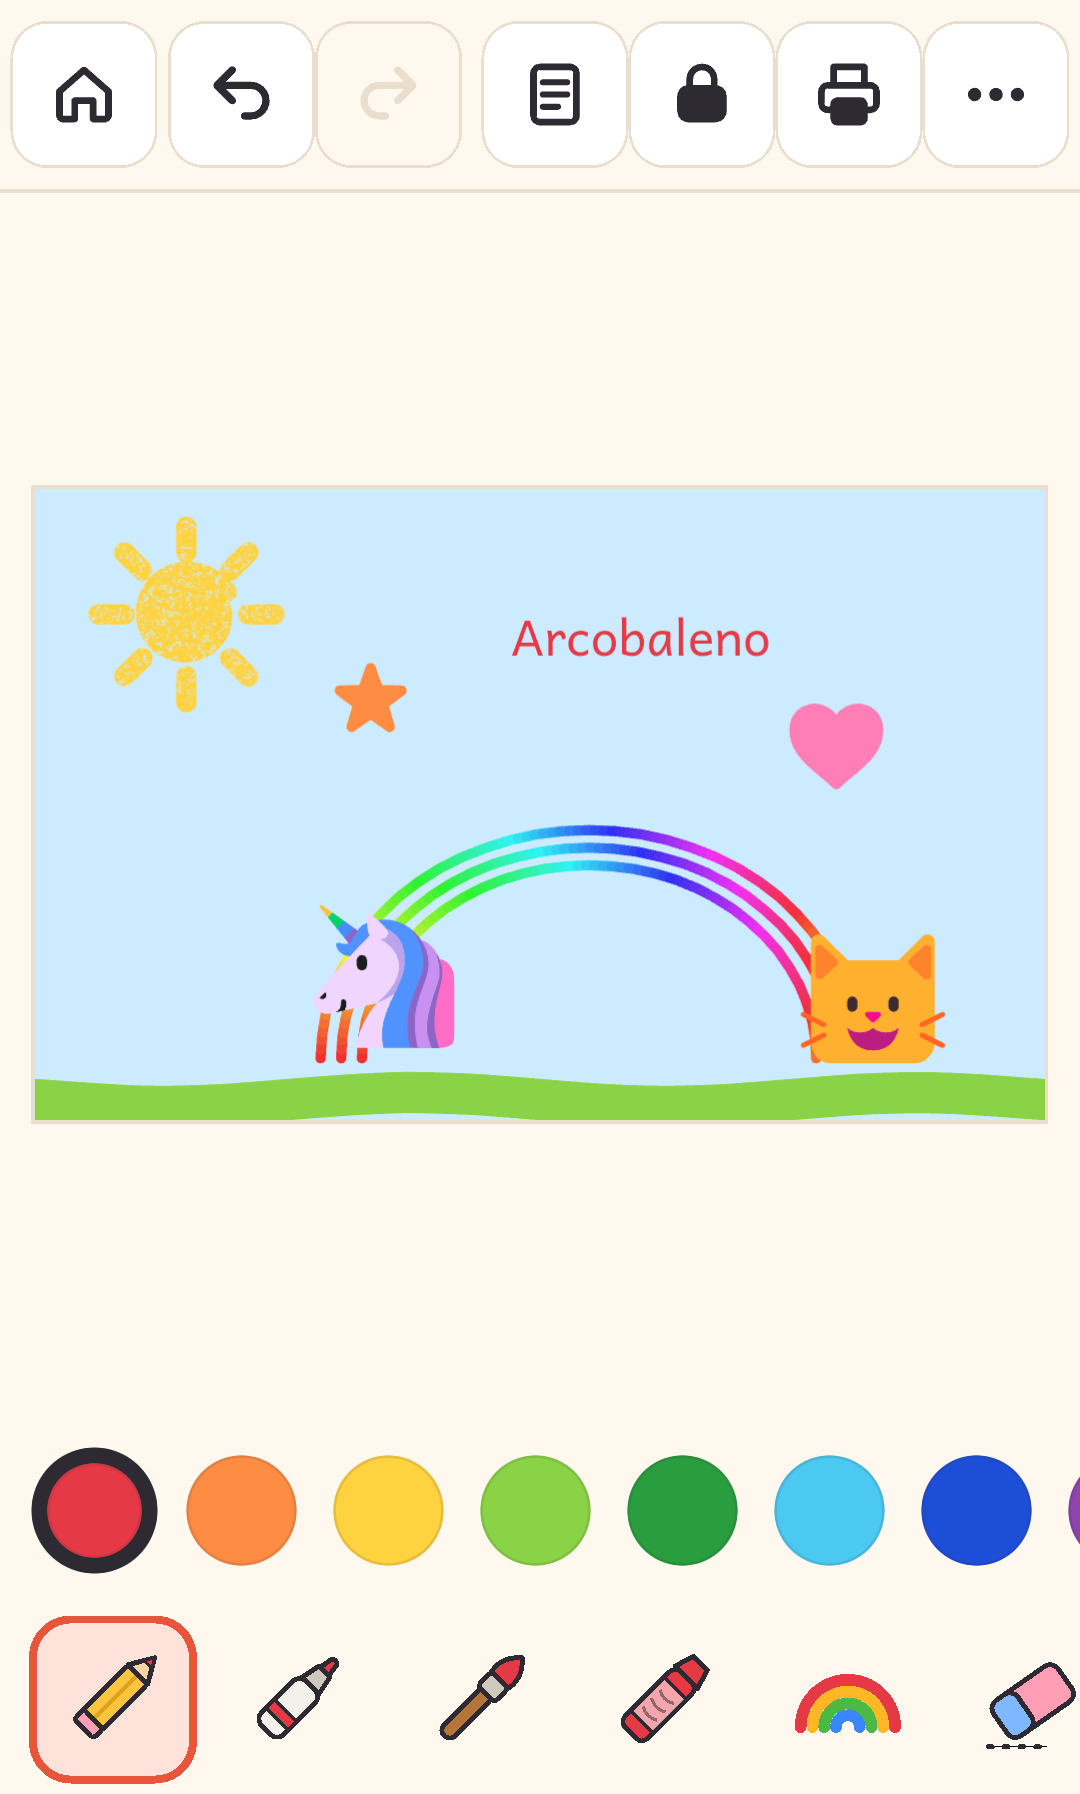
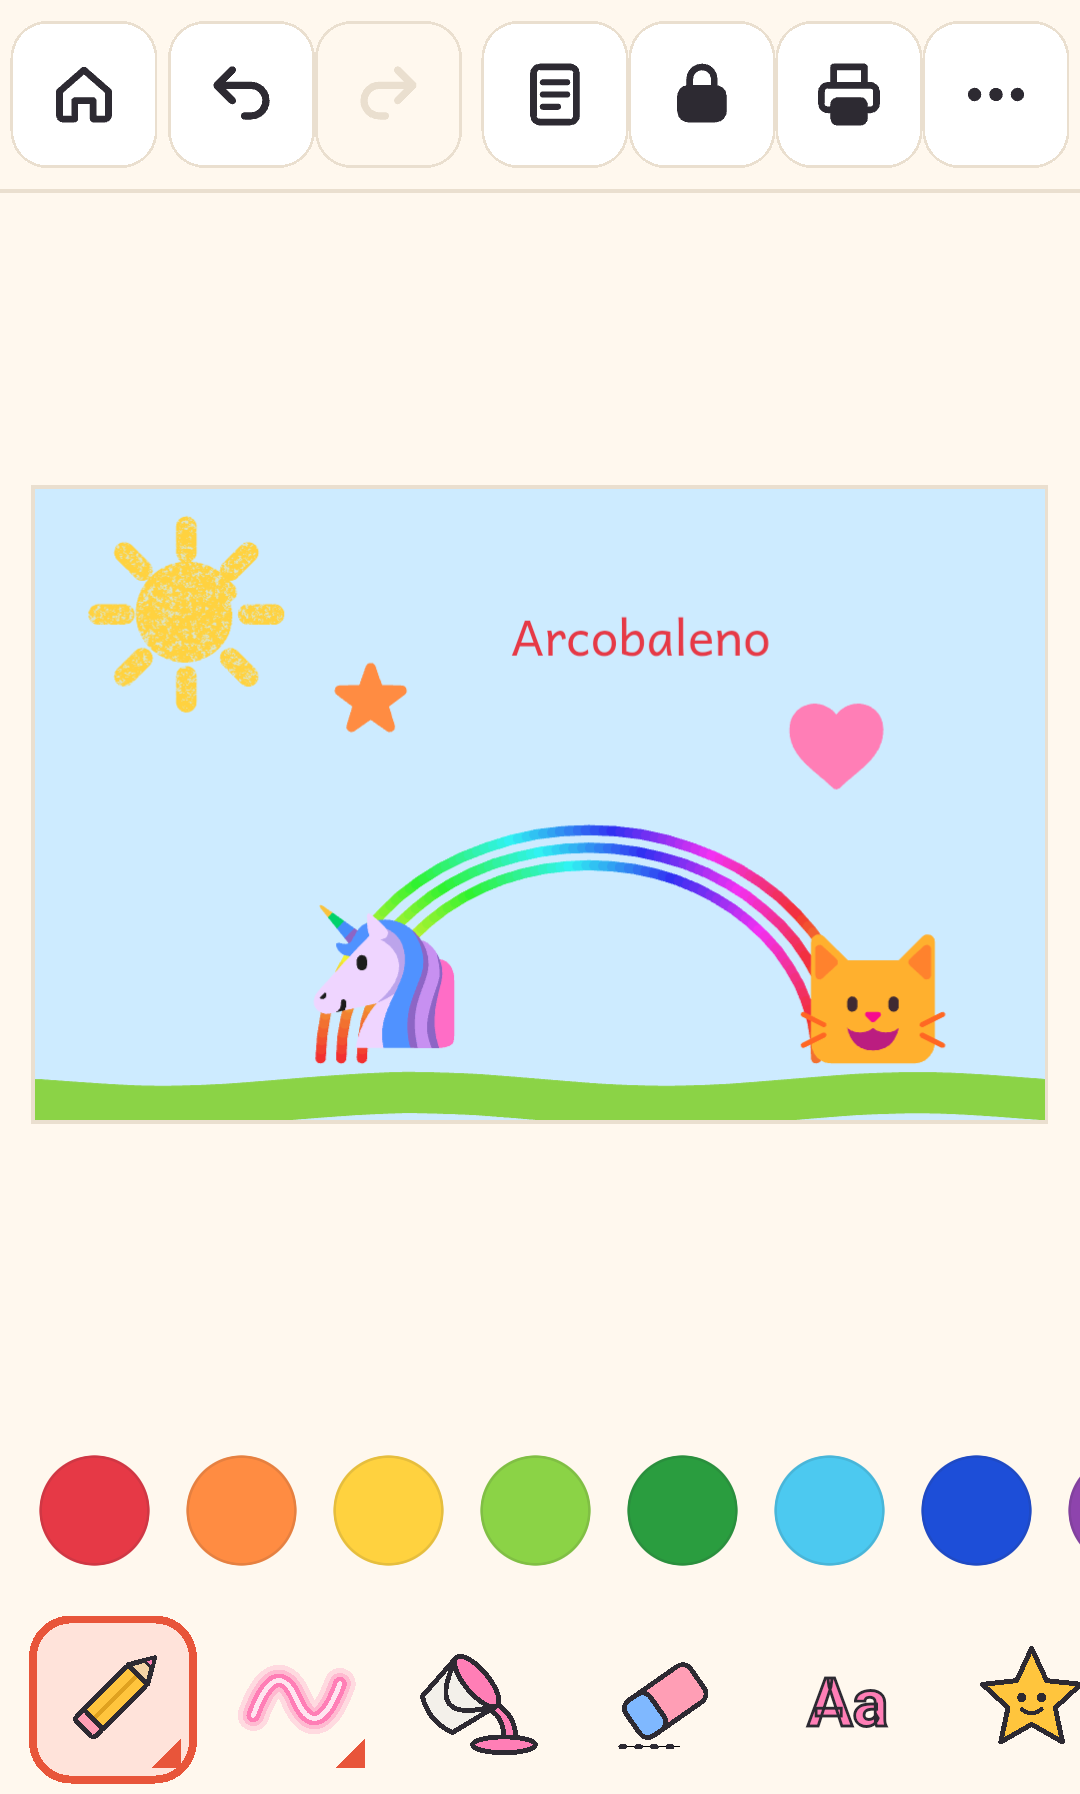
Prepare the 1.1.0 release
Version 1.1.0+2, changelog section, store notes in Italian and English,
descriptions and new screenshots with the tool categories, magic brushes,
paint bucket and coloring pages.

diff --git a/CHANGELOG.md b/CHANGELOG.md
@@ -7,6 +7,8 @@ and this project adheres to [Semantic Versioning](https://semver.org/spec/v2.0.0
 
 ## [Unreleased]
 
+## [1.1.0] - 2026-10-31
+
 ### Added
 
 - Parents' page: export all the drawings to a `.zip` file, saved where the
@@ -98,5 +100,6 @@ First release.
 
 - The throwaway drawing prototype, now replaced by the app.
 
-[Unreleased]: https://github.com/pegperego/pastello-app/compare/v1.0.0...HEAD
+[Unreleased]: https://github.com/pegperego/pastello-app/compare/v1.1.0...HEAD
+[1.1.0]: https://github.com/pegperego/pastello-app/compare/v1.0.0...v1.1.0
 [1.0.0]: https://github.com/pegperego/pastello-app/releases/tag/v1.0.0
